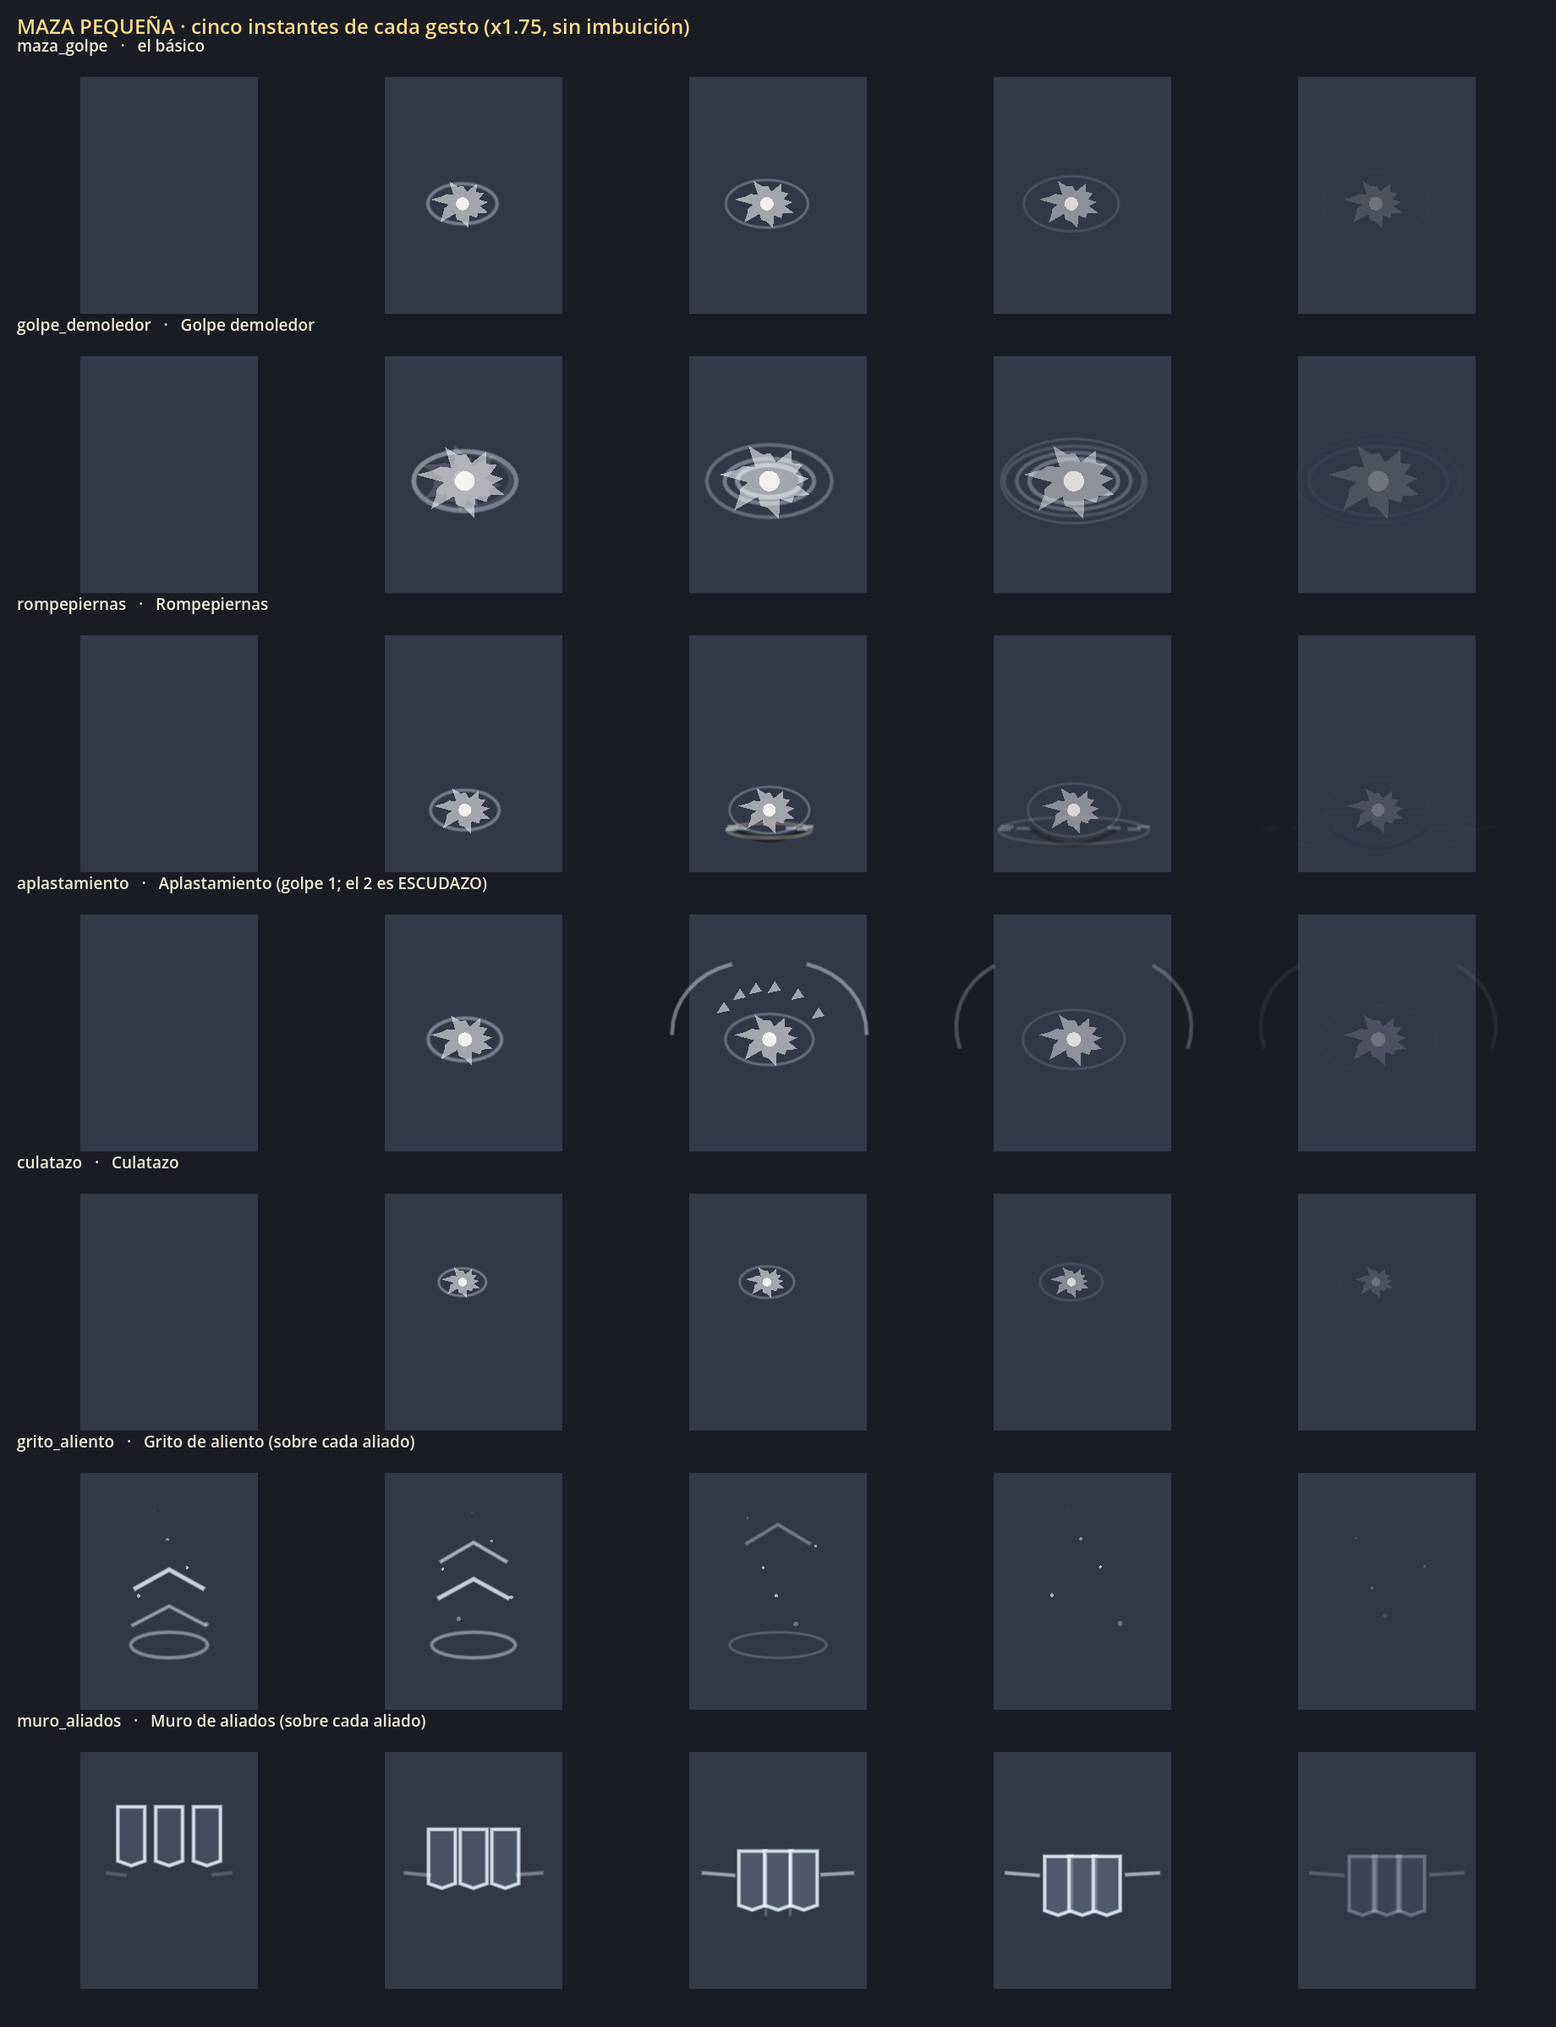
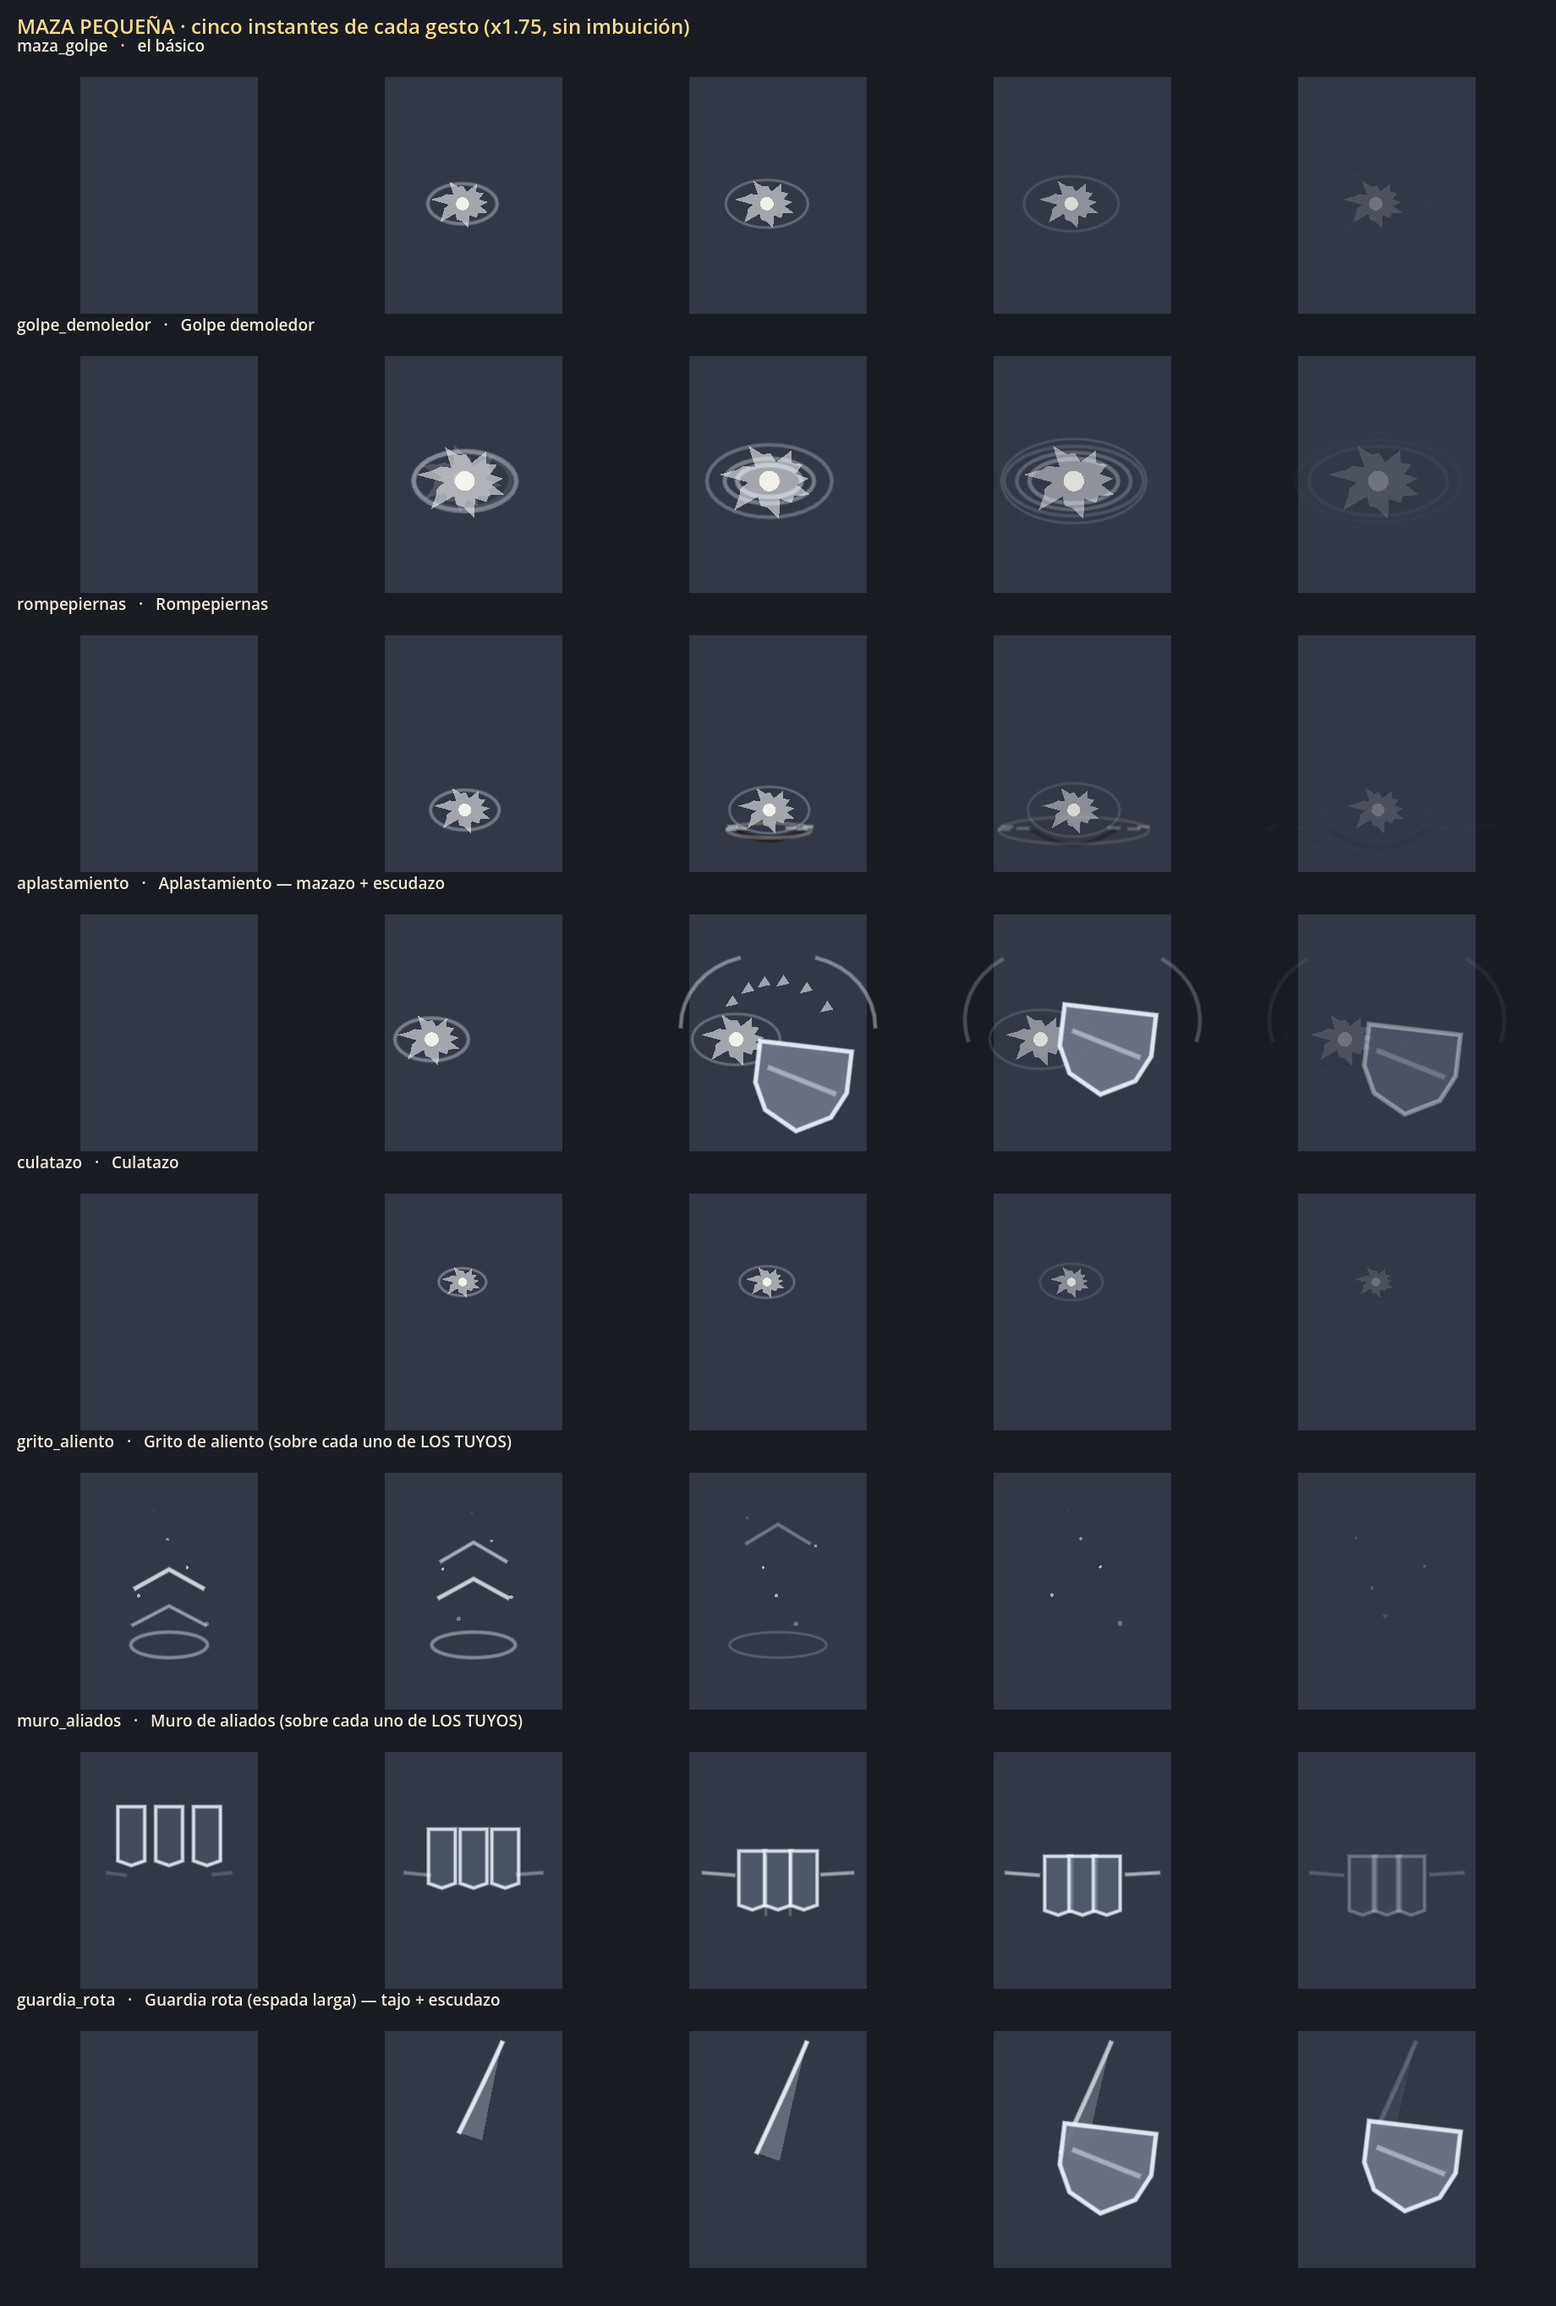
El escudo entra por el otro lado, y los buffs van a los tuyos
Dos fallos que se vieron mirandolo:

El Aplastamiento pintaba sus dos golpes en el mismo punto con dos
decimas de diferencia, asi que el escudazo caia encima de la mancha del
mazazo y no se leia que fueran dos golpes distintos -- que es justo lo
que cuenta esa habilidad. Ahora cada mano entra por su lado
(DESVIO_MANO, una constante y no dos literales, que los dos painters
tienen que sumar y restar lo mismo). La Guardia rota de la espada larga
tenia el mismo solape desde el dia que se hizo y se arregla sola: el
desvio va en _pintar_escudazo, que lo comparten.

Y el visor soltaba el Grito de aliento y el Muro de aliados sobre los
muñecos de ARRIBA, o sea sobre los enemigos, cuando son buffs que van a
tu grupo. En la pelea estaban bien (combat.gd los reparte con
_objetivos_area_aliados, que recorre _aliados); era el visor, que no
tenia fila de compañeros. Ahora la tiene, y la Voz de mando -- que
estaba puesta como si se la echara uno a si mismo -- va con ellos.

La hoja de contactos ya pinta los DOS golpes de las de dos golpes: con
solo el primero, el solape no se veia.

diff --git a/docs/gestos/LEEME.md b/docs/gestos/LEEME.md
@@ -39,7 +39,8 @@ Cuatro instantes de cada gesto, una hoja por arma:
 - `gestos_5_mandobles.png`
 - `gestos_6_imbuiciones.png` — los mismos gestos con acero, veneno, fuego, agua y rayo
 - `gestos_7_maza_peq.png` — **cinco** instantes, ampliados ×1.75 y con el recuadro de la tarjeta
-  detrás, que es lo único con lo que se distingue una púa roma de una afilada
+  detrás, que es lo único con lo que se distingue una púa roma de una afilada. Las de **dos golpes**
+  (Aplastamiento, Guardia rota) salen con los dos puestos: es la única forma de ver si se solapan
 
 Se regeneran con el visor (`F12`) o volviendo a escribir el generador; son capturas, no hay que
 mantenerlas al día salvo que cambie un gesto.
